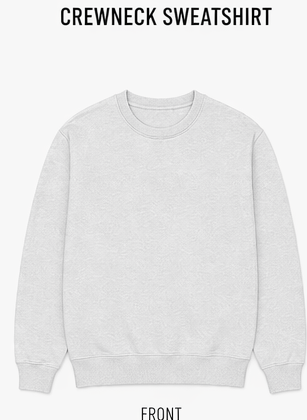
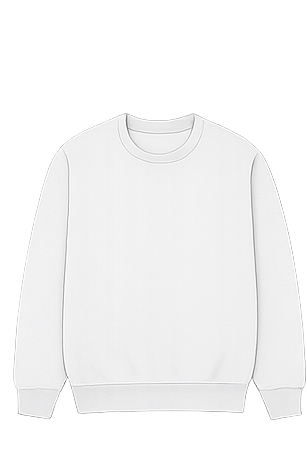
feat: replace templates with clean no-text version, adjust art centering
Re-crops all 10 garment PNGs from the cleaner source (no text labels,
dark gradient background). Updated TEMPLATE_H to 450 and nudged
TEMPLATE_META artCenterY values to match the new crop boundaries.

diff --git a/src/components/orders/ShirtMockup.tsx b/src/components/orders/ShirtMockup.tsx
@@ -20,15 +20,15 @@ export interface ShirtMockupProps {
 // Template images are 307 × 420 px. Print-area center in template pixels.
 // PX_PER_INCH converts DTF inches → template pixel units for artwork sizing.
 const TEMPLATE_W = 307
-const TEMPLATE_H = 420
+const TEMPLATE_H = 450
 const PX_PER_INCH = 10
 
 const TEMPLATE_META: Record<string, { frontCenterY: number; backCenterY: number }> = {
-  tshirt:     { frontCenterY: 170, backCenterY: 160 },
-  longsleeve: { frontCenterY: 170, backCenterY: 160 },
-  crewneck:   { frontCenterY: 185, backCenterY: 168 },
-  hoodie:     { frontCenterY: 200, backCenterY: 168 },
-  ziphoodie:  { frontCenterY: 200, backCenterY: 168 },
+  tshirt:     { frontCenterY: 185, backCenterY: 175 },
+  longsleeve: { frontCenterY: 185, backCenterY: 175 },
+  crewneck:   { frontCenterY: 195, backCenterY: 178 },
+  hoodie:     { frontCenterY: 210, backCenterY: 178 },
+  ziphoodie:  { frontCenterY: 210, backCenterY: 178 },
 }
 
 function isLight(hex: string) {
